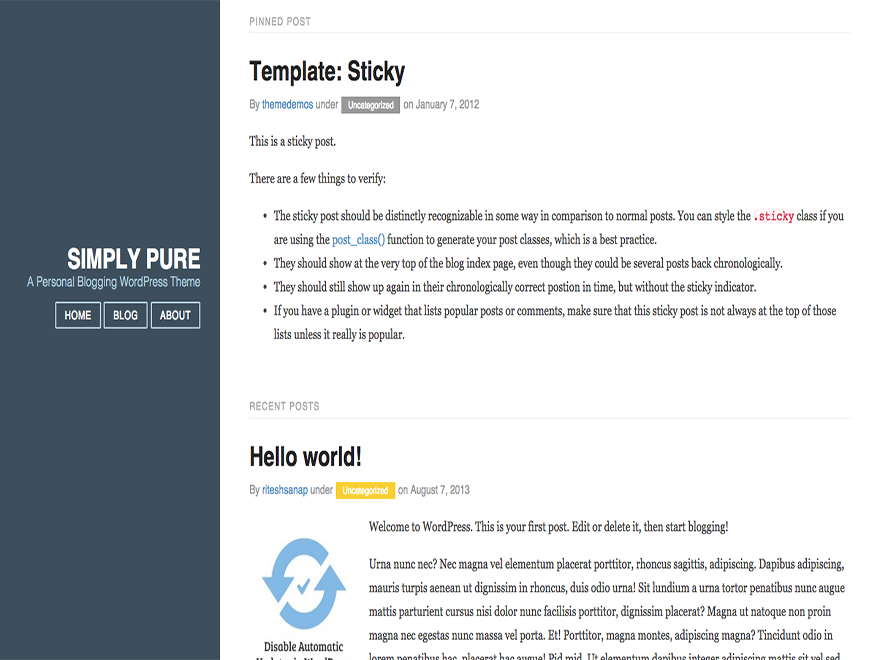
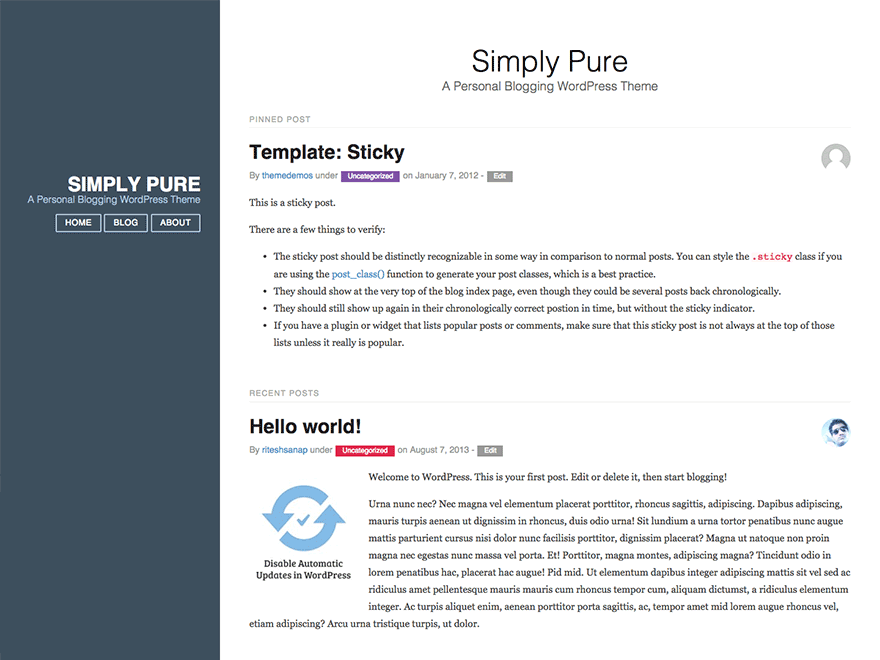
Version 1.1
Releasing 1.1 with minor fixes, for changes done check changelog.txt

diff --git a/style.scss b/style.scss
@@ -2,8 +2,8 @@
 Theme Name: Simply Pure
 Theme URI:  http://wpden.net/simply-pure-wordpress-theme/
 Author: Ritesh Sanap
-Author URI: http://www.best2know.info/
-Version: 1.0
+Author URI: http://wpden.net/
+Version: 1.1
 Description: A Personal blogging wordpress theme, made with Yahoo's Pure CSS. Simply Pure is a responsive WordPress theme with Two-columns and 3 widget footer.
 License: GNU General Public License v2.0
 License URI: http://www.gnu.org/licenses/gpl-2.0.html
@@ -676,6 +676,13 @@ pre {
 .author_link {
 	@extend .post-category;
 	color:#fff !important;
+}
+.post-title-no-avatar {
+	.post-title {
+		.avatar {
+			display: none !important;
+		}
+	}
 }
 /************************************************************************************/
 /*	Responsive	*/		

diff --git a/style.css b/style.css
@@ -2,8 +2,8 @@
 Theme Name: Simply Pure
 Theme URI:  http://wpden.net/simply-pure-wordpress-theme/
 Author: Ritesh Sanap
-Author URI: http://www.best2know.info/
-Version: 1.0
+Author URI: http://wpden.net/
+Version: 1.1
 Description: A Personal blogging wordpress theme, made with Yahoo's Pure CSS. Simply Pure is a responsive WordPress theme with Two-columns and 3 widget footer.
 License: GNU General Public License v2.0
 License URI: http://www.gnu.org/licenses/gpl-2.0.html
@@ -2323,6 +2323,10 @@ pre {
 
 .author_link {
   color: #fff !important;
+}
+
+.post-title-no-avatar .post-title .avatar {
+  display: none !important;
 }
 
 /************************************************************************************/

diff --git a/comments.php b/comments.php
@@ -13,9 +13,9 @@
     <?php wp_list_comments( array( 'style' => 'div','echo'=>1, 'callback'=>'purecss_comments','avatar_size'=>48, 'depth'=>10 ) ); ?>
 		<?php if ( get_comment_pages_count() > 1 && get_option( 'page_comments' ) ) : ?>
 	<nav id="comment-nav-below" class="navigation comment-navigation" role="navigation">
-		<h1 class="screen-reader-text content-subhead"><?php _e( 'Comment navigation', 'purecss_theme' ); ?></h1>
-		<div class="nav-previous alignleft"><?php previous_comments_link( __( '&larr; Older Comments', 'purecss_theme' ) ); ?></div>
-		<div class="nav-next alignright"><?php next_comments_link( __( 'Newer Comments &rarr;', 'purecss_theme' ) ); ?></div>
+		<h1 class="screen-reader-text content-subhead"><?php _e( 'Comment navigation', 'purecss' ); ?></h1>
+		<div class="nav-previous alignleft"><?php previous_comments_link( __( '&larr; Older Comments', 'purecss' ) ); ?></div>
+		<div class="nav-next alignright"><?php next_comments_link( __( 'Newer Comments &rarr;', 'purecss' ) ); ?></div>
 	</nav><!-- #comment-nav-below -->
 	<?php endif; ?>
 </div>
@@ -58,7 +58,7 @@ function purecss_comments($comment, $args, $depth) {
 	<?php printf( __( '<cite class="fn">%s</cite> <span class="says">says:</span>' ), get_comment_author_link() ); ?>
 	</div>
 	<?php if ( $comment->comment_approved == '0' ) : ?>
-		<em class="comment-awaiting-moderation"><?php _e( 'Your comment is awaiting moderation.','purecss_theme' ); ?></em>
+		<em class="comment-awaiting-moderation"><?php _e( 'Your comment is awaiting moderation.','purecss' ); ?></em>
 		<br />
 	<?php endif; ?>
 
@@ -69,7 +69,7 @@ function purecss_comments($comment, $args, $depth) {
 		<div class="comment-meta commentmetadata"><a href="<?php echo htmlspecialchars( get_comment_link( $comment->comment_ID ) ); ?>">
 		<?php
 			/* translators: 1: date, 2: time */
-			printf( __('%1$s at %2$s', 'purecss_theme'), get_comment_date(),  get_comment_time() ); ?></a><?php edit_comment_link( __( '(Edit)', 'purecss_theme' ), '  ', '' );
+			printf( __('%1$s at %2$s', 'purecss'), get_comment_date(),  get_comment_time() ); ?></a><?php edit_comment_link( __( '(Edit)', 'purecss' ), '  ', '' );
 		?>
 	</div>
 
@@ -98,14 +98,14 @@ $aria_req = ( $req ? " aria-required='true' required" : '' );
  	$comments_default = array(
   'id_form'           => 'commentform',
   'id_submit'         => 'submit',
-  'title_reply'       => __( 'Leave a Reply', 'purecss_theme' ),
-  'title_reply_to'    => __( 'Leave a Reply to %s', 'purecss_theme' ),
-  'cancel_reply_link' => __( 'Cancel Reply', 'purecss_theme' ),
-  'label_submit'      => __( 'Post Comment', 'purecss_themea' ),
+  'title_reply'       => __( 'Leave a Reply', 'purecss' ),
+  'title_reply_to'    => __( 'Leave a Reply to %s', 'purecss' ),
+  'cancel_reply_link' => __( 'Cancel Reply', 'purecss' ),
+  'label_submit'      => __( 'Post Comment', 'purecss' ),
 
   'comment_field' =>  '<div class="comment-form-comment pure-control-group"><textarea id="comment" name="comment" class="pure-input-1-2" rows="8" aria-required="true" placeholder="Comment">' .
     '</textarea>'.
-    '<label for="comment">' . __( 'Comment', 'purecss_theme' ) .'</label>'.
+    '<label for="comment">' . __( 'Comment', 'purecss' ) .'</label>'.
     '</div>',
 
   'must_log_in' => '<p class="must-log-in">' .
@@ -123,7 +123,7 @@ $aria_req = ( $req ? " aria-required='true' required" : '' );
     ) . '</p>',
 
   'comment_notes_before' => '<p class="comment-notes">' .
-    __( 'Your email address will not be published.', 'purecss_theme' ) . '</p>',
+    __( 'Your email address will not be published.', 'purecss' ) . '</p>',
     'comment_notes_after' =>'',
   // 'comment_notes_after' => '<p class="form-allowed-tags">' .
   //   sprintf(
@@ -137,26 +137,26 @@ $aria_req = ( $req ? " aria-required='true' required" : '' );
       '<div class="comment-form-author pure-control-group">' .
 	  '<input id="author" name="author" type="text" value="' . esc_attr( $commenter['comment_author'] ) .
       '" class="pure-input-1-2" placeholder="Name (Required)"' . $aria_req . '/>'.
-      '<label for="author">' . __( 'Name', 'purecss_theme' ) . '</label>'.
+      '<label for="author">' . __( 'Name', 'purecss' ) . '</label>'.
       '</div>',
 
     'email' =>
       '<div class="comment-form-email pure-control-group">'.
       '<input id="email" name="email" type="text" value="' . esc_attr(  $commenter['comment_author_email'] ) .
       '" class="pure-input-1-2" placeholder="Email (Required)"' . $aria_req . '/>'.
-      '<label for="email">' . __( 'Email', 'purecss_theme' ). '</label>'.
+      '<label for="email">' . __( 'Email', 'purecss' ). '</label>'.
       '</div>',
 
     'url' =>
       '<div class="comment-form-url pure-control-group">'.
       '<input id="url" name="url" type="text" value="' . esc_attr( $commenter['comment_author_url'] ) .
       '" class="pure-input-1-2" placeholder="Website"/>'.
-      '<label for="url">' . __( 'Website', 'purecss_theme' ) . '</label>' .'</div>'
+      '<label for="url">' . __( 'Website', 'purecss' ) . '</label>' .'</div>'
     )
   ),
 ); ?>
 		<?php if ( ! comments_open() ) : ?>
-			<h6 class="no-comments content-subhead"><?php _e( 'Comments are closed.', 'purecss_theme' ); ?></h6>
+			<h6 class="no-comments content-subhead"><?php _e( 'Comments are closed.', 'purecss' ); ?></h6>
 		<?php endif; ?>
 
 <?php comment_form($comments_default); ?>

diff --git a/functions.php b/functions.php
@@ -17,7 +17,7 @@ function simply_pure_theme_install() {
 	if ( ! isset( $content_width ) ) $content_width = 900;
 	// This theme uses wp_nav_menu() in two locations.
 	register_nav_menus( array(
-			'primary'   => __( 'Primary menu', 'purecss_theme' ),
+			'primary'   => __( 'Primary menu', 'purecss' ),
 	) );
 }
 add_action( 'after_setup_theme', 'simply_pure_theme_install' );
@@ -33,8 +33,8 @@ add_action( 'after_setup_theme', 'simply_pure_theme_install' );
  */
 function pure_sidebar_widgets() {
 	register_sidebars(3, array(
-        'name' => __('Footer - Widget Area %1$s', 'purecss_theme'),
-        'description' => __('Footer Sidebar', 'purecss_theme'),
+        'name' => __('Footer - Widget Area %1$s', 'purecss'),
+        'description' => __('Footer Sidebar', 'purecss'),
         'id' => 'footer-area',
         'before_widget' => '<div id="%1$s" class="%2$s widget">',
         'after_widget' => '</div>',
@@ -43,8 +43,8 @@ function pure_sidebar_widgets() {
     ));
 
 register_sidebars(3, array(
-        'name' => __('Post Footer - Widget Area %1$s', 'purecss_theme'),
-        'description' => __('Footer Sidebar', 'purecss_theme'),
+        'name' => __('Post Footer - Widget Area %1$s', 'purecss'),
+        'description' => __('Footer Sidebar', 'purecss'),
         'id' => 'post-footer',
         'before_widget' => '<div id="%1$s" class="%2$s widget">',
         'after_widget' => '</div>',
@@ -52,8 +52,8 @@ register_sidebars(3, array(
         'after_title' => '</h3>'
     ));
 register_sidebar(array(
-        'name' => __('Sidebar', 'purecss_theme'),
-        'description' => __('Below Header', 'purecss_theme'),
+        'name' => __('Sidebar', 'purecss'),
+        'description' => __('Below Header', 'purecss'),
         'id' => 'sidebar-area',
         'before_widget' => '<section id="%1$s" class="%2$s widget">',
         'after_widget' => '</section>',
@@ -64,7 +64,7 @@ register_sidebar(array(
 }
 add_action('widgets_init', 'pure_sidebar_widgets');
 /**
- * Add Stylesheet
+ * Add Stylesheet and scripts
  *
  * @version 1.0
  * @since   Simply Pure 1.0
@@ -72,7 +72,20 @@ add_action('widgets_init', 'pure_sidebar_widgets');
  *
  */
 function purecss_scripts_styles() {
+	/**
+	 * Enqueue StyleSheet
+	 */
 	wp_enqueue_style( 'purecss-style', get_stylesheet_uri(), array(), '0.1');
+	
+	/**
+	 * Add JavaScript to animate Sidebar, when the sidebar is active i.e. atleast has 1 widget
+	 */
+	if(is_active_sidebar('sidebar-area')) {
+		/**
+		 * The Below script should be added in the footer so $in_footer is set to true
+		 */
+		wp_enqueue_script('purecss-script', get_template_directory_uri(). '/script.js', array(), '0.1', true);
+	}
 }
 add_action( 'wp_enqueue_scripts', 'purecss_scripts_styles' );
 
@@ -83,7 +96,7 @@ function pure_author_link() {
 
 	$link = sprintf('<a href="%1$s" title="%2$s" rel="author" itemprop="url"><span itemprop="name">%3$s</span></a>',
 		esc_url( get_author_posts_url($authId, $niceName) ),
-		esc_attr( sprintf( __( 'Posts by %s', 'purecss_theme' ), get_the_author() ) ),
+		esc_attr( sprintf( __( 'Posts by %s', 'purecss' ), get_the_author() ) ),
 		get_the_author()
 	);
 	$link = '<span class="entry-author" itemprop="author" itemscope="itemscope" itemtype="http://schema.org/Person">'. $link. '</span>';
@@ -185,7 +198,7 @@ function purecss_wp_title( $title, $sep ) {
 
 	// Add a page number if necessary.
 	if ( $paged >= 2 || $page >= 2 ) {
-		$title = "$title $sep " . sprintf( __( 'Page %s', 'purecss_theme' ), max( $paged, $page ) );
+		$title = "$title $sep " . sprintf( __( 'Page %s', 'purecss' ), max( $paged, $page ) );
 	}
 
 	return $title;
@@ -243,6 +256,10 @@ function pure_body_classes($classes) {
 	} else {
 		$classes[] = 'header-half';
 	}
+
+	if(!get_theme_mod('display_avatar', true)) {
+		$classes[] = 'post-title-no-avatar';
+	}
 	return $classes;
 }
 add_filter( 'body_class', 'pure_body_classes' );
@@ -265,28 +282,3 @@ function purecss_archive_title() {
 
 	return $title;
 }
-/**
- * Add appropiate Classes for animating the header and sidebar
- *
- * @version 1.0
- * @since   Simply Pure 1.0
- * @author Ritesh Sanap <riteshsanap@gmail.com>
- *
- * @return  string   
- */
-function purecss_footer_script() { ?>
-<script>
-	window.onscroll = function animateHeader() {
-	var header = document.getElementById("pure-main-header");
-	if(window.scrollY > 50 && !header.classList.contains("animate_header") && window.innerWidth >= 768) {
-		header.classList.add("animate_header");
-		var sidebar = document.getElementById("widget-sidebar");
-		sidebar.classList.add("animate_sidebar");
-	}
-}
-</script>
-<?php }
-if(is_active_sidebar('sidebar-area')) {
-	add_action('wp_footer', 'purecss_footer_script');
-}
-?>

diff --git a/customizer.php b/customizer.php
@@ -2,9 +2,9 @@
 /************************************************************************************/
  /*	Theme Customizer	*/		
  /************************************************************************************/		
- function purecss_theme_customizer( $wp_customize ) {
+ function purecss_customizer( $wp_customize ) {
  	$wp_customize->add_section('purecss_sidebar', array(
- 		'title' => 'Sidebar',
+ 		'title' => 'Theme Settings',
  		'priority'=> 110
  		));
  		/* Header Background */
@@ -16,7 +16,7 @@
 	) );
 
     $wp_customize->add_control( new WP_Customize_Control( $wp_customize, 'purecss_sidebar_position_select', array(
-	'label'        => __( 'Sidebar Position', 'purecss_theme' ),
+	'label'        => __( 'Sidebar Position', 'purecss' ),
 	'section'    => 'purecss_sidebar',
 	'settings'   => 'sidebar_position',
 	'type' => 'radio',
@@ -43,8 +43,22 @@
     		'content-top-home' => 'Sidebar Top + (Content Top on Home Page)'
     		)
     	)));
+    
+    $wp_customize->add_setting( 'display_avatar', array(
+        'default'        => true,
+        'transport'=>'refresh',
+        'capability'=>'edit_theme_options',
+        'sanitize_callback'=>'sanitize_theme_values'
+    ) );
+    
+    $wp_customize->add_control( 'display_avatar_control', array(
+        'settings' => 'display_avatar',
+        'label'    => __( 'Display Avatar next to Post title', 'purecss'),
+        'section'  => 'purecss_sidebar',
+        'type'     => 'checkbox',
+        ) );
  }
- add_action( 'customize_register', 'purecss_theme_customizer' ); 
+ add_action( 'customize_register', 'purecss_customizer' ); 
 
  function sanitize_theme_values($value) {
     return $value;    

diff --git a/header.php b/header.php
@@ -10,7 +10,7 @@
 <body <?php body_class(); ?> itemscope="itemscope" itemtype="http://schema.org/WebPage">
 <div id="master-head" class="pure-g">
 <div id="content" class="wrapper content pure-u-1 pure-u-md-3-4">
-<?php $purehead = get_theme_mod('header_position');  ?>
+<?php $purehead = get_theme_mod('header_position', 'content-top-home');  ?>
 <?php if( ( $purehead == 'content-top-home' && is_home() ) || ( $purehead !='sidebar-top' && $purehead =='content-top' || $purehead == 'both' ) ) : ?>
 <div class="header">
 	<?php if(!is_home()) : ?>

diff --git a/footer.php b/footer.php
@@ -15,7 +15,7 @@
 	<div class="clearfix"></div>
 </div>
 <div class="footer">
-	&copy; <?php echo Date('Y'); ?> <?php bloginfo('title'); ?> - Developed by <a href="<?php echo _('http://www.best2know.info/'); ?>" class="post-category author_link">Ritesh Sanap</a>
+	&copy; <?php echo Date('Y'); ?> <?php bloginfo('title'); ?> - Theme by <a href="<?php  echo esc_url( __( 'http://wpden.net/', 'purecss' ) ); ?>" class="post-category author_link">WordPress Den</a>
 </div>
 </div><!-- end Content -->
 <?php get_sidebar(); ?>

diff --git a/content-loop.php b/content-loop.php
@@ -14,6 +14,7 @@
 		<article id="post-<?php the_ID(); ?>" <?php post_class(); ?> itemscope="itemscope" itemtype="http://schema.org/BlogPosting">
 			<header class="post-header">
 				<h2 class="post-title" itemprop="headline">
+				<?php echo get_avatar( get_the_author_meta( 'ID' ), 48); ?>
 				<a href="<?php the_permalink(); ?>" rel="bookmark"><?php the_title(); ?></a>
 				</h2>
 				<?php pure_post_meta(); ?>
